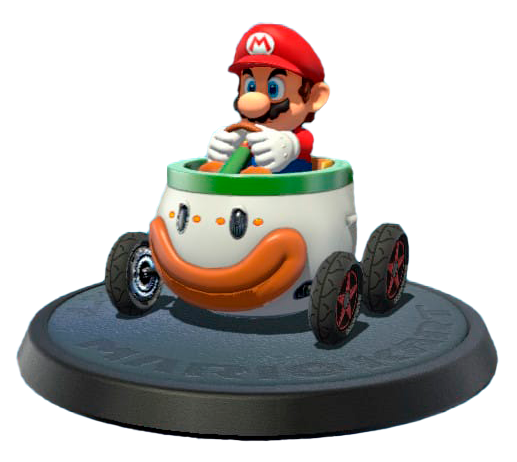
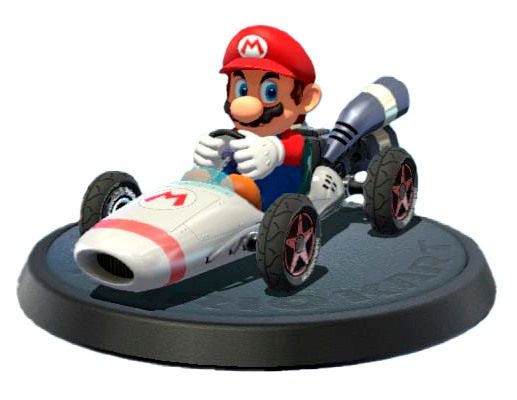
WIP - Interactividad
He colocado las cosas un poco más y he añadido hovers a los botones. Todavía tengo que cambiar algunas fotos para poner unas de mejor calidad. Y estoy pensando para el personaje dejar la plataforma fija e ir cambiando a mario con el vehículo encima.

diff --git a/html/vehicle.html b/html/vehicle.html
@@ -3,27 +3,30 @@
 <head>
     <meta charset="UTF-8">
     <meta name="viewport" content="width=device-width, initial-scale=1.0">
-    
     <title>Vehicle Selection Page</title>
-
     <link rel="stylesheet" href="../css/vehicle.css">
 </head>
-
 <body>
+    <!-- Pantalla de carga -->
+    <div id="loading">Loading...</div>
+
     <main>
         <!-- Sección izquierda (Vehículos) -->
         <section class="left">
             <div class="black-background-vehicle"></div>
             <div class="vehicle-container">
-                <button class="arrow left-arrow" onclick="changeVehicle(-1)">
+                <!-- Flecha izquierda -->
+                <button class="arrow left-arrow" id="left-arrow">
                     <img src="../media/vehicles/flecha-izq.png" alt="Anterior">
                 </button>
 
+                <!-- Carrusel de vehículos -->
                 <div class="vehicle-background">
-                    <img id="vehicle" src="../media/vehicles/car.png" alt="Vehículo"  class="vehicle">
+                    <img id="vehicle" src="../media/vehicles/car.png" alt="Vehículo" class="vehicle">
                 </div>
-                
-                <button class="arrow right-arrow" onclick="changeVehicle(1)">
+
+                <!-- Flecha derecha -->
+                <button class="arrow right-arrow" id="right-arrow">
                     <img src="../media/vehicles/flecha_drch.png" alt="Siguiente">
                 </button>
             </div>
@@ -31,7 +34,6 @@
 
         <!-- Sección derecha (Mario en el vehículo) -->
         <section class="right">
-            
             <div class="black-background-character">
                 <div class="title-container">
                     <h2>Choose your Vehicle!</h2>
@@ -40,12 +42,10 @@
 
             <div class="character-container">
                 <div class="character-background">
-                    <img src="../media/vehicles/mario_coche.png" alt="Mario en el coche" class="character">
+                    <img id="mario" src="../media/vehicles/mario_coche.png" alt="Mario en el coche" class="character">
                 </div> 
             </div>
-
         </section>
-        
     </main>
 
     <!-- Botones -->
@@ -56,36 +56,57 @@
         <img src="../media/general/btnA.png" alt="Aceptar">
     </button>
 
-    <!-- Barra de prograso -->
+    <!-- Barra de progreso -->
     <div class="bottom-image">
         <img src="../media/vehicles/progressbar.png" alt="Barra de progreso">
     </div>
 
-    <!-- Vehículos -->
+    <!-- Script para el carrusel -->
     <script>
         const vehicles = [
-            'car', 'car1', 'car2', 'car3', 'car4', 'car5'
-        ];
-
-        const marioImages = [
-        'mario_coche', 'mario_coche1', 'mario_coche2', 'mario_coche3', 'mario_coche4', 'mario_coche5'
+            { name: 'car', marioImg: 'mario_coche.png' },
+            { name: 'car1', marioImg: 'mario_coche1.png' },
+            { name: 'car2', marioImg: 'mario_coche2.png' },
+            { name: 'car3', marioImg: 'mario_coche3.png' },
+            { name: 'car4', marioImg: 'mario_coche4.png' },
+            { name: 'car5', marioImg: 'mario_coche5.png' }
         ];
 
         let currentVehicleIndex = 0;
 
+        const vehicleImg = document.getElementById("vehicle");
+        const marioImg = document.getElementById("mario");
+        const title = document.querySelector('h2');
+
+        function updateTitle(vehicle) {
+            title.innerHTML = `You selected: ${vehicle}`;
+        }
+
         function changeVehicle(direction) {
             currentVehicleIndex += direction;
+
             if (currentVehicleIndex < 0) {
                 currentVehicleIndex = vehicles.length - 1;
             } else if (currentVehicleIndex >= vehicles.length) {
                 currentVehicleIndex = 0;
             }
 
-            document.getElementById("vehicle").src = "../media/vehicles/" + vehicles[currentVehicleIndex] + ".png";
+            const vehicle = vehicles[currentVehicleIndex];
+            updateTitle(vehicle.name);
 
-            document.querySelector(".character").src = "../media/vehicles/" + marioImages[currentVehicleIndex] + ".png";
+            // Cambiar imágenes de vehículo y Mario
+            vehicleImg.src = "../media/vehicles/" + vehicle.name + ".png";
+            marioImg.src = "../media/vehicles/" + vehicle.marioImg;
         }
+
+        // Controladores de evento para las flechas
+        document.getElementById('left-arrow').addEventListener('click', () => changeVehicle(-1));
+        document.getElementById('right-arrow').addEventListener('click', () => changeVehicle(1));
+
+        // Pantalla de carga
+        window.addEventListener('load', () => {
+            document.getElementById('loading').style.display = 'none';
+        });
     </script>
-    
 </body>
 </html>

diff --git a/css/vehicle.css b/css/vehicle.css
@@ -10,7 +10,7 @@ body {
     display: flex;
     justify-content: center;
     align-items: center;
-    background-image: url('../media/general/background2.png'); /* Imagen de fondo */
+    background-image: url('../media/general/background2.png'); 
     background-size: cover;
     background-position: center;
     background-repeat: no-repeat;
@@ -36,7 +36,7 @@ main {
     position: relative;
 }
 
-.black-background-vehicle{
+.black-background-vehicle {
     position: absolute;
     width: 700px;
     height: 1080px;
@@ -45,7 +45,7 @@ main {
     transform: skew(-20deg);
 }
 
-.black-background-character{
+.black-background-character {
     position: absolute;
     top: 50%;
     left: 50%;
@@ -57,7 +57,7 @@ main {
     z-index: 0;
 }
 
-.vehicle-container{
+.vehicle-container {
     display: flex;
     align-items: center;
     justify-content: center;
@@ -66,46 +66,21 @@ main {
     height: 100%;
 }
 
-.vehicle-background{
+.vehicle-background {
     width: 300px;
     height: 400px;
     display: flex;
     justify-content: center;
-    align-items: center
+    align-items: center;
 }
 
 .vehicle {
-    width: 160%;
+    width: 160%; 
     height: auto;
     max-height: 1000%;
     object-fit: contain;
     z-index: 2;
-}
-
-.arrow {
-    position: absolute;
-    top: 50%;
-    transform: translateY(-50%);
-    background: none;
-    border: none;
-    cursor: pointer;
-    z-index: 3;
-    width: 60px;
-    height: 60px;
-}
-
-.arrow img {
-    width: 100%;
-    height: 100%;
-    object-fit: contain;
-}
-
-.left-arrow {
-    left: -80px; 
-}
-
-.right-arrow {
-    right: -80px;
+    transition: opacity 0.5s ease-in-out; 
 }
 
 .character-container {
@@ -117,7 +92,7 @@ main {
 
 .title-container {
     position: absolute;
-    top: 20px;  
+    top: 20px;
     left: 50%;
     transform: translateX(-50%) skew(20deg);
     width: 100%;
@@ -125,21 +100,20 @@ main {
 }
 
 h2 {
-    font-size: 42px; 
+    font-size: 36px;
     color: rgba(243, 217, 83, 1);
     margin: 0;
     padding: 0;
     z-index: 2;
 }
 
-.character-background{
+.character-background {
     position: relative;
     width: 300px;
     height: 400px;
     display: flex;
     justify-content: center;
     align-items: center;
-    z-index: 1;
 }
 
 .character {
@@ -148,28 +122,61 @@ h2 {
     max-height: 1000%;
     object-fit: contain;
     z-index: 2;
+    transition: opacity 0.5s ease-in-out; 
+}
+
+.arrow {
+    position: absolute;
+    top: 50%;
+    transform: translateY(-50%);
+    background: none;
+    border: none;
+    cursor: pointer;
+    z-index: 3;
+    width: 60px;  
+    height: 60px;
+}
+
+.left-arrow {
+    left: -80px;
+}
+
+.right-arrow {
+    right: -80px;
+}
+
+.arrow img {
+    width: 100%;
+    height: 100%;
+    object-fit: contain;
+}
+
+#btnB, #btnA {
+    position: absolute;
+    background: none;
+    border: none;
+    cursor: pointer;
 }
 
 #btnB {
-    position: absolute;
     top: 0px;
     left: 0px;
-    background: none;
-    border: none;
-    cursor: pointer;
 }
 
 #btnA {
-    position: absolute;
     bottom: 0px;
     right: 0px;
-    background: none;
-    border: none;
-    cursor: pointer;
+}
+
+button:hover {
+    transform: scale(1.1); 
+    transition: transform 0.3s ease;
 }
 
 .bottom-image {
-    width: 100%;
     position: absolute;
-    bottom: 0;
+    bottom: 10px;
+    width: 100%;
+    display: flex;
+    justify-content: center;
 }
